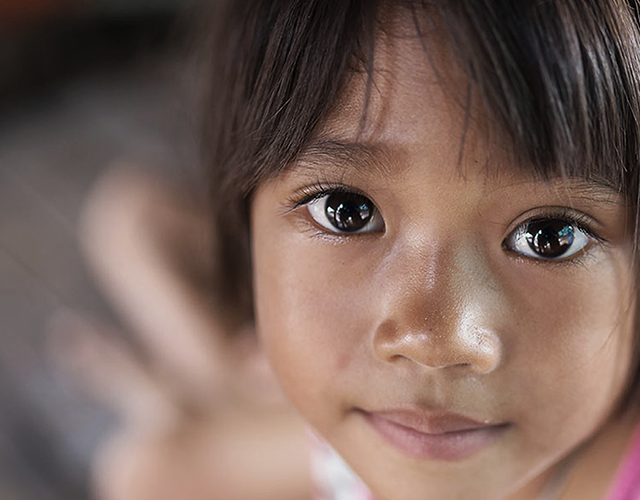
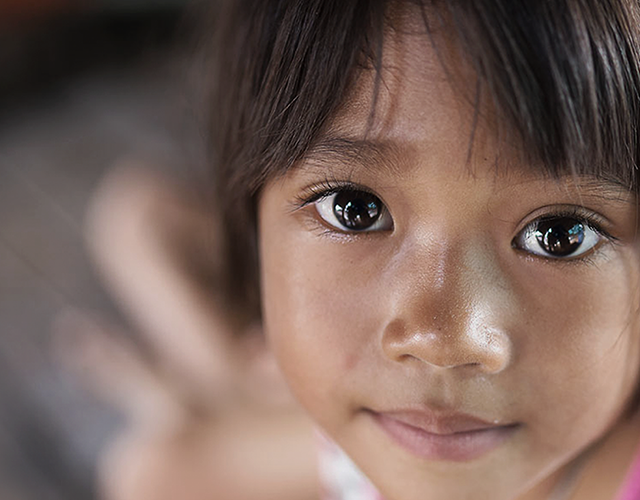
Fix responsive home

diff --git a/_source/stylesheets/pages/_home.scss b/_source/stylesheets/pages/_home.scss
@@ -102,7 +102,7 @@ h5 {
 	background-color: palette('brown', 'dark');
 
 	@include media('>=480px') {
-		@include aspect-ratio (480 x 270);
+		@include aspect-ratio (480 x 279);
 
 		background-image: image('girl-480w.png');
 	}
@@ -112,12 +112,12 @@ h5 {
 		background-image: image('girl-640w.png');
 	}
 	@include media('>=768px') {
-		@include aspect-ratio (768 x 559);
+		@include aspect-ratio (768 x 465);
 
 		background-image: image('girl-768w.png');
 	}
 	@include media('>=1024px') {
-		@include aspect-ratio (1024 x 620);
+		@include aspect-ratio (1024 x 590);
 
 		background-image: image('girl-1024w.png');
 	}
@@ -142,18 +142,15 @@ h5 {
 .greeting .content-container {
 	max-width: 100%;
 	min-width: 50%;
-
-	padding-top: span(2) / 1em * 1rem;
 	padding-bottom: 0;
 	margin-right: auto;
 	margin-left: 0;
 
-	@include media('>3col') {
+	@include media('<4col') {
+		clear: left;
+		padding-top: $line-height * 1rem;
+		padding-bottom: $line-height * 1rem;
 
-		max-width: 70%;
-		padding-top: span(1.2) / 1em * 1rem;
-		padding-left: $line-height * 3rem;
-		margin-right: auto;
 	}
 
 
@@ -161,31 +158,37 @@ h5 {
 
 		max-width: 70%;
 		padding-top: span(1.2) / 1em * 1rem;
-		padding-left: $line-height * 3rem;
+		padding-left: $line-height * 1.5rem;
 		margin-right: auto;
 	}
 	@include media('>=5col') {
 		max-width: 70%;
 
-		padding-top: span(1.5) / 1em * 1rem;
-		padding-left: span(0.8)/ 1em * 1rem;
+		padding-top: span(1.4) / 1em * 1rem;
+		padding-left: $line-height * 2rem;
 		margin-right: auto;
 	}
 	@include media('>=6col') {
-		max-width: 70%;
-
 		padding-top: span(1.5) / 1em * 1rem;
-		padding-left: span(1)/ 1em * 1rem;
+		padding-left: span(0.5)/ 1em * 1rem;
 	}
+
 	@include media('>=8col') {
+		max-width: 60%;
+
+		padding-top: span(1.9) / 1em * 1rem;
+		padding-left: span(0.9)/ 1em * 1rem;
+	}
+
+
+
+	@include media('>=9col') {
 		max-width: 50%;
 
 		padding-top: span(2) / 1em * 1rem;
 		padding-left: span(1)/ 1em * 1rem;
 	}
 }
-
-
 
 
 
@@ -205,6 +208,7 @@ h5 {
 
 	background-color: palette('white');
 }
+
 
 
 /* solution
